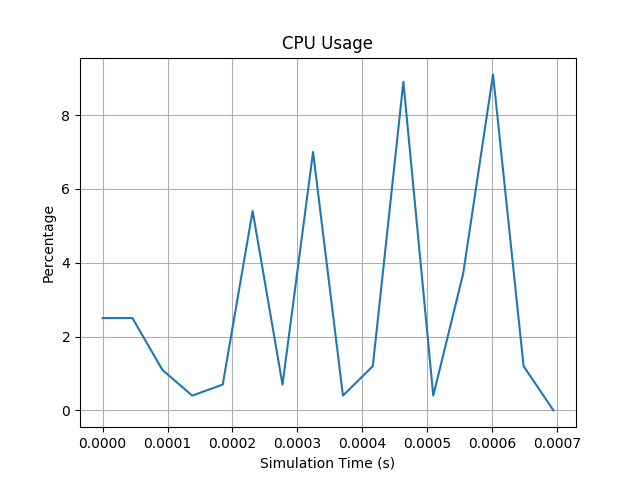
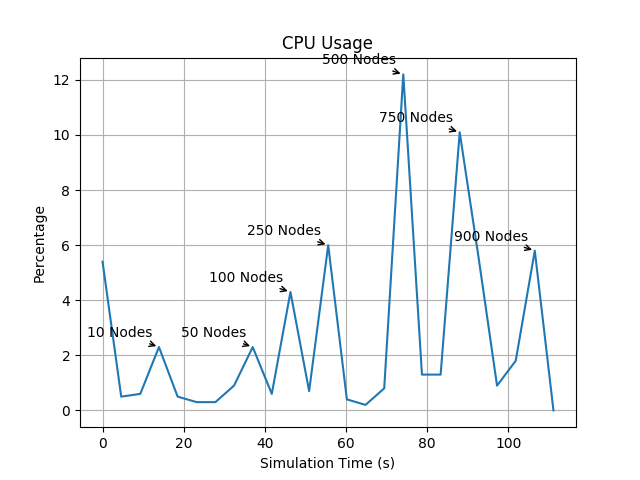
Updated graphs and testing data for simulation

diff --git a/examples/broadcast/simple/graph.py b/examples/broadcast/simple/graph.py
@@ -3,9 +3,18 @@ import pandas as pd
 
 filename = 'broadcast_simple_thread_data'
 df=pd.read_csv('test_data/' + filename + '.csv', sep=',')
-df['ts'] = df['Time'] - df['Time'].iloc[0]
+df['ts'] = (df['Time'] - df['Time'].iloc[0]) * 100000
 
 fig, ax1 = plt.subplots()
+lables = [10,50,100,250,500,750,900]
+lablesXI = [2, 4, 8, 12, 16, 20, 23]
+lablesY = [14, 64, 114, 264, 514, 764, 914]
+for i in range(0, len(lables)):
+    plt.annotate(
+        str(lables[i]) + " Nodes",
+        xy=(df['ts'].iloc[lablesXI[i]], lablesY[i]), xytext=(-5, 5),
+        textcoords='offset points', ha='right', va='bottom',
+        arrowprops=dict(arrowstyle = '->', connectionstyle='arc3,rad=0'))
 
 ax2 = ax1.twinx()
 ax1.plot(df['ts'], df['Live threads'], 'r-')
@@ -14,15 +23,26 @@ ax2.plot(df['ts'], df['Peak'], 'g-')
 ax1.set_xlabel('Simulation Time (s)')
 ax1.set_ylabel('Live Thread Count', color='r')
 ax2.set_ylabel('Peak Thread Count', color='g')
+title('Thread Usage')
 grid(True)
 plt.savefig(filename + '.png')
 plt.clf()
 
 filename = 'broadcast_simple_cpu_data'
 df=pd.read_csv('test_data/' + filename + '.csv', sep=',')
-df['ts'] = df['Time'] - df['Time'].iloc[0]
+df['ts'] = (df['Time'] - df['Time'].iloc[0]) * 100000
 plot(df['ts'], df['CPU Usage'])
  
+lables = [10,50,100,250,500,750,900]
+lablesXI = [3, 8, 10, 12, 16, 19, 23]
+lablesY = [2.3, 2.3, 4.3, 6.0, 12.2, 10.1, 5.8]
+for i in range(0, len(lables)):
+    plt.annotate(
+        str(lables[i]) + " Nodes",
+        xy=(df['ts'].iloc[lablesXI[i]], lablesY[i]), xytext=(-5, 5),
+        textcoords='offset points', ha='right', va='bottom',
+        arrowprops=dict(arrowstyle = '->', connectionstyle='arc3,rad=0'))
+
 xlabel('Simulation Time (s)')
 ylabel('Percentage')
 title('CPU Usage')

diff --git a/examples/broadcast/simple/BroadcastExample.java b/examples/broadcast/simple/BroadcastExample.java
@@ -16,7 +16,7 @@ import examples.shared.SoftwareMedium;
 public class BroadcastExample {
     public static void main(String[] args) {
         try {
-            Thread.sleep(10000);
+            Thread.sleep(15000);
         } catch (InterruptedException e) {
             // TODO Auto-generated catch block
             e.printStackTrace();
@@ -39,7 +39,7 @@ public class BroadcastExample {
 
     private static void test(int nodeCount) {
         try {
-            Thread.sleep(5000);
+            Thread.sleep(7500);
         } catch (InterruptedException e) {
             // TODO Auto-generated catch block
             e.printStackTrace();
@@ -55,14 +55,14 @@ public class BroadcastExample {
         nodes.get(0).send("Hello Middleman!");
         nodes.get(0).bc.cancel();
         System.out.println("Ending: " + nodeCount);
+        for (Node node : nodes) {
+            node.bc.cancel();
+        }
         try {
-            Thread.sleep(5000);
+            Thread.sleep(7500);
         } catch (InterruptedException e) {
             // TODO Auto-generated catch block
             e.printStackTrace();
-        }
-        for (Node node : nodes) {
-            node.bc.cancel();
         }
     }
 
